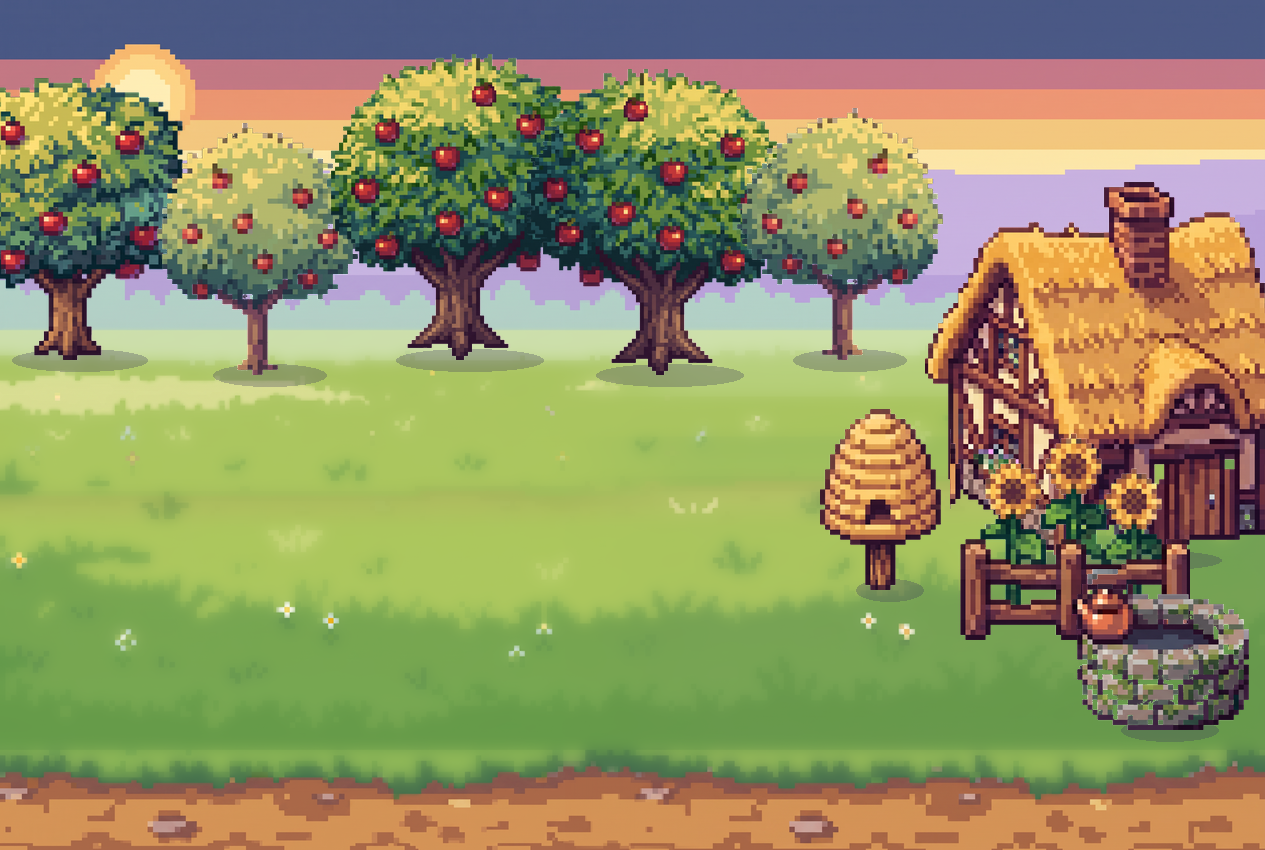
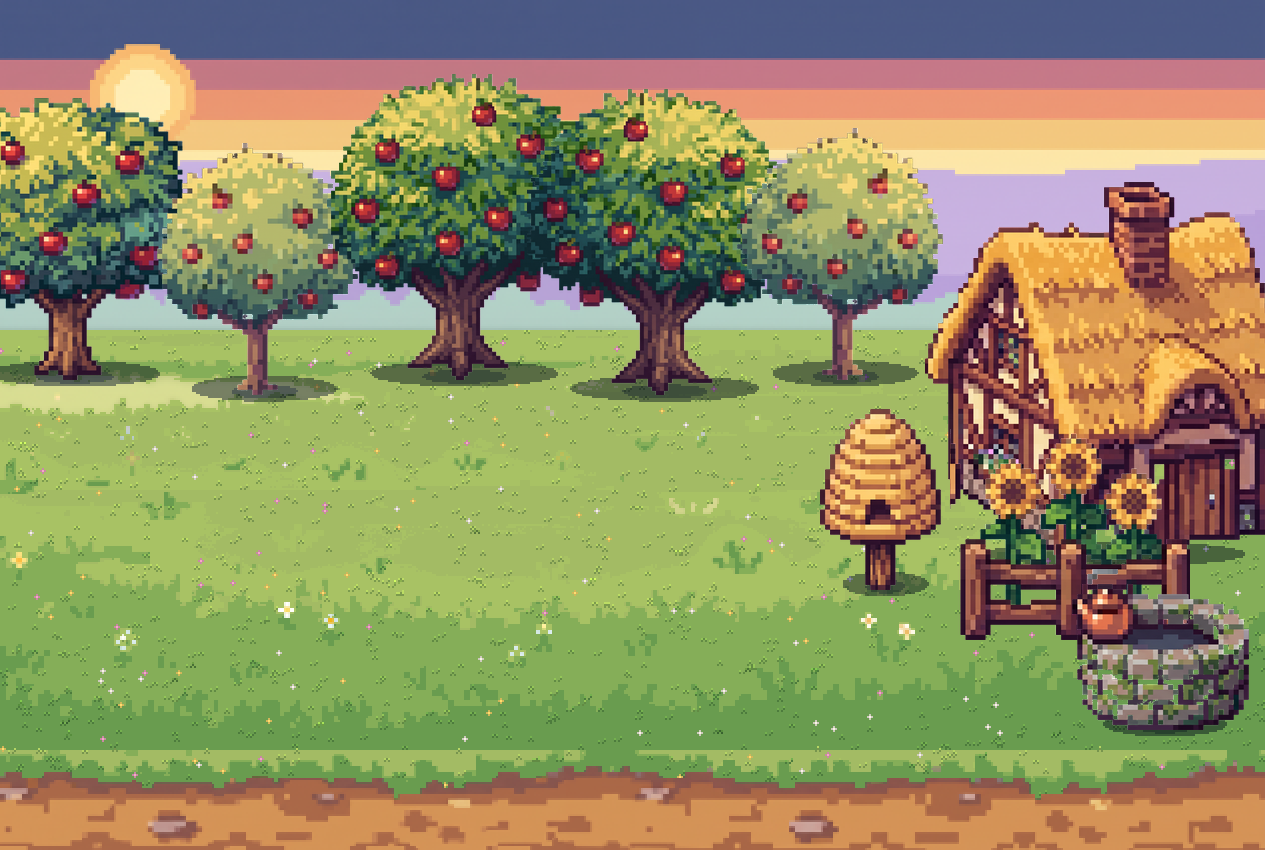
Jobs pick new facts they can show; orchard trees grounded, crisp pixel grass, hard shadows
A job's fact filter (the orchard has no take-away and no zeros) used to run after the practice engine chose its new
facts, so every easiest new fact was thrown away and only already-seen facts came back: a new player got the same
fact again and again. buildFactQueue takes an `only` filter that applies before the choice, and jobs pass theirs.

The orchard's trees stand a little into the meadow on hard-edged two-step contact shadows that darken the grass, and
the meadow is on the pieces' pixel grid in a few flat greens with crisp tufts (no softening pass).

Claude-Session: https://claude.ai/code/session_018EatS8EEd6jpQM1S16gyDn

diff --git a/village.js b/village.js
@@ -1335,7 +1335,7 @@
   function startJobScene() { scene = makeScene('job', (g, k) => O.J.still(g, k), paintedJob() ? FINE : 1); scene.painted = paintedJob(); scene.cam = { ...JCAM }; scene.after = jobOverlays; startLoop(drawJob); renderJobWork(); const fd = document.getElementById('vfade'); if (fd) fd.classList.remove('on'); }
   function jobRefill() {
     const open = O.J.skills.filter(id => EM.isOpen(id));
-    O.queue.push(...EM.buildFactQueue(open.length ? open : [O.J.skills[0]], 14).queue.filter(e => O.J.fact(EM.FACTS[e.key])));
+    O.queue.push(...EM.buildFactQueue(open.length ? open : [O.J.skills[0]], 14, Date.now(), { only: k => O.J.fact(EM.FACTS[k]) }).queue);
   }
   function nextQ() {
     clearTimeout(O.helloT); O.i++; if (O.i >= O.queue.length && !O.J.proc) jobRefill();

diff --git a/engine.js b/engine.js
@@ -324,6 +324,8 @@
     const order = new Map();
     const focus = S.focus || {}, isF = k => focus[k] > now;
     let keys = uniq([...skillIds.flatMap(id => EM.SK[id].facts), ...(opts.extraKeys || []), ...(opts.dueOnly ? [] : Object.keys(focus).filter(k => isF(k) && EM.FACTS[k]))]);
+    // a place that can only show some facts (the orchard has no take-away) picks only from those, so new facts still come in
+    if (opts.only) keys = keys.filter(opts.only);
     keys.forEach((k, i) => order.set(k, i));
     if (opts.dueOnly) keys = keys.filter(k => S.facts[k] && (S.facts[k].box < 1 || startOfDay(S.facts[k].due) <= now));
     const rec = k => S.facts[k];
